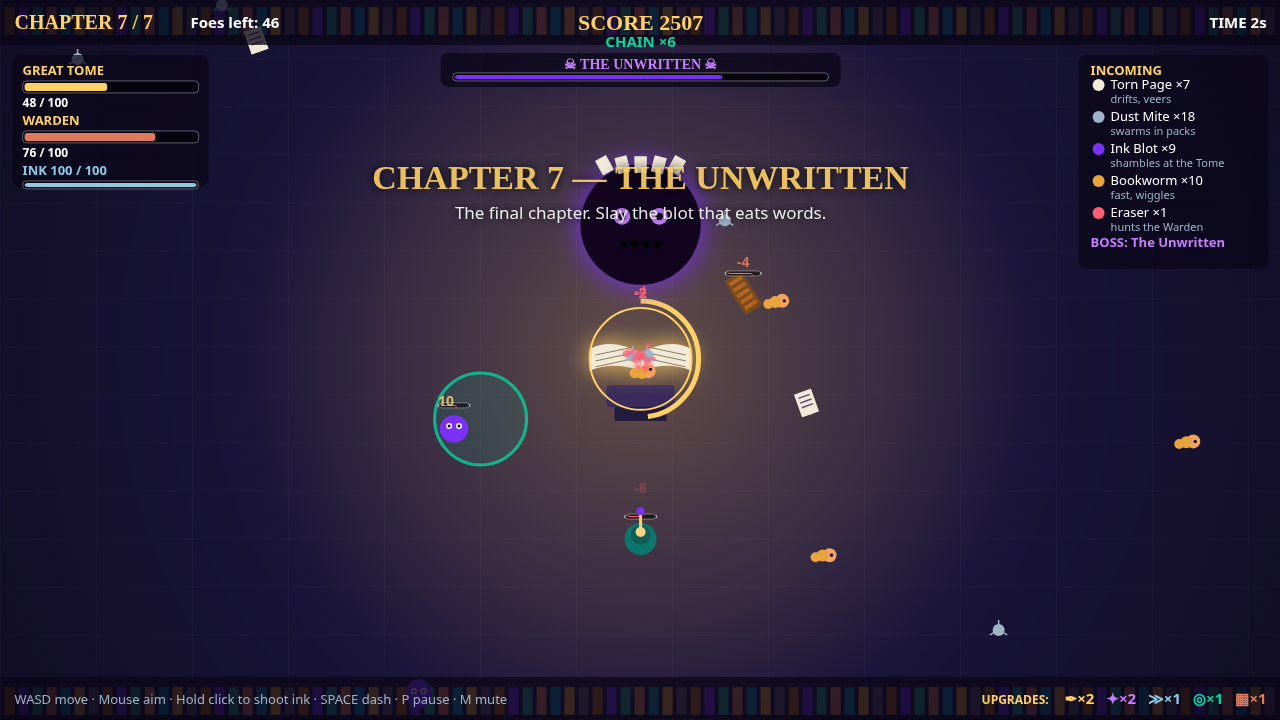
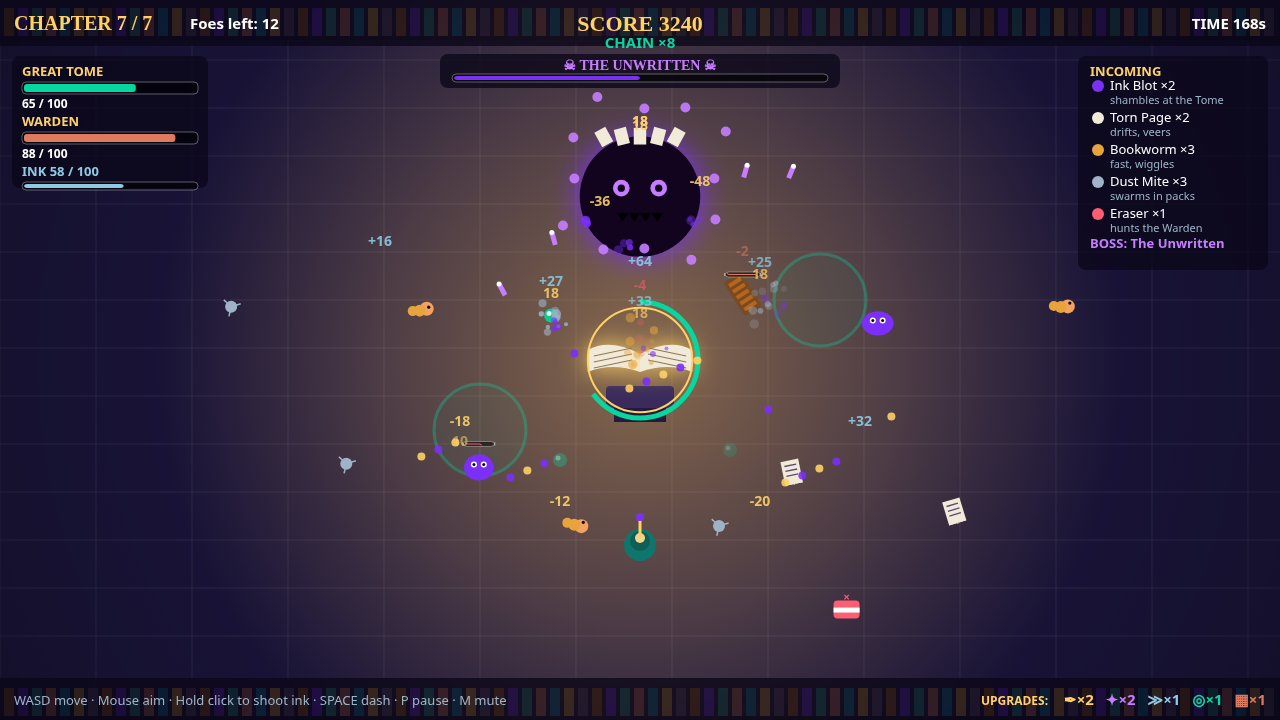
INKBOUND fix round: denser, brighter screenshots, frozen staging
- Cover re-staged as mid-chapter 4 (TIME 38s, Tome 78, chain x12, 26 foes
  on screen, 2 traps, 12 bolts, damage numbers) instead of a fresh
  chapter-3 start; boss re-staged mid-fight (boss 50% HP, 11 adds,
  TIME 168s, Tome 65) with the chapter banner cleared so no text
  strikes through the boss.
- Staged scenes now freeze after settling: captures land 2-6 s after
  load, and the live horde used to chew the Tome to zero (measured:
  82 -> 0 in ~5 s, run 'lost' by 5.7 s) before the shot. Freeze is
  staging-only (?shot=); real play is untouched — autoplay still wins
  118.1 s, 34545 pts, 326 kills, as before.
- Arena brightened a touch (Tome glow 0.30 -> 0.45, floor grid
  0.045 -> 0.09, vignette 0.42 -> 0.32); no balance or mechanic change.
- Hit-flash reset after settling so no enemy freezes bleached white.

diff --git a/game/src/main.js b/game/src/main.js
@@ -97,64 +97,118 @@ const stageInput = {
   wasPressed() { return false; },
 };
 
+// Once a staged scene has settled, the simulation FREEZES: a screenshot is a
+// still, and the capture can land 2–6 s after load — long enough for the
+// unstaged horde to chew the Tome to zero and flip the run to 'lost' (measured
+// live: tome 82 → 0 in ~5 s, phase 'lost' by 5.7 s). Freezing holds the
+// intended composition exactly while the render loop keeps repainting it.
+// Only active under ?shot=; real play never sets this flag.
+let stagedFreeze = false;
+
 function stageShot(kind) {
   if (kind === 'start') { run.phase = 'title'; return; }
   startRun(run);
   if (kind === 'play') {
-    startChapter(run, 3);
-    run.spawnQueue = run.spawnQueue.slice(0, 6);
+    startChapter(run, 4);
+    run.spawnQueue = [];
     applyUpgrade(run, 'damage'); applyUpgrade(run, 'spread');
-    applyUpgrade(run, 'trap'); applyUpgrade(run, 'shelf');
-    run.score = 1240; run.chain = 6; run.chainTimer = 999;
-    run.tome.integrity = 82;
-    run.player.ink = 64;
-    run.player.x = 640; run.player.y = 480;
-    const spots = [[400, 220], [840, 200], [500, 160], [800, 280], [360, 400], [900, 420], [640, 140], [300, 280], [980, 300], [480, 540], [800, 560], [640, 560], [420, 480], [860, 480], [540, 240], [820, 520]];
-    const kinds = ['blot', 'worm', 'page', 'blot', 'eraser', 'mite', 'spill', 'worm', 'blot', 'page', 'mite', 'worm', 'blot', 'eraser', 'page', 'worm'];
+    applyUpgrade(run, 'trap'); applyUpgrade(run, 'shelf'); applyUpgrade(run, 'shelf');
+    run.score = 2450; run.chain = 12; run.chainTimer = 999;
+    run.tome.integrity = 78;
+    run.player.ink = 72; run.player.hp = 96;
+    run.player.x = 640; run.player.y = 500;
+    // 28 enemies spread over the whole frame — a siege ring near the Tome,
+    // mid-field packs, and stragglers at the edges — so the frame reads dense
+    // at judge size instead of empty purple grid.
+    const spots = [[300, 180], [980, 520], [520, 240], [760, 250], [500, 430], [780, 470], [640, 200], [560, 300], [730, 330], [450, 330], [840, 360], [380, 480], [900, 480], [300, 320], [960, 220], [200, 420], [1080, 380], [180, 180], [1120, 160], [120, 560], [1160, 580], [420, 620], [880, 620], [640, 620], [240, 300], [1040, 480], [760, 560], [480, 560]];
+    const kinds = ['spill', 'spill', 'blot', 'worm', 'page', 'mite', 'worm', 'mite', 'blot', 'worm', 'page', 'blot', 'eraser', 'page', 'worm', 'mite', 'blot', 'worm', 'mite', 'blot', 'page', 'worm', 'mite', 'eraser', 'mite', 'worm', 'blot', 'page'];
     spots.forEach((s, i) => spawnEnemy(run, kinds[i], s[0], s[1]));
-    // Ink bolts already in flight, a trap blooming, splats and numbers.
-    for (let i = 0; i < 8; i++) {
-      const a = -Math.PI / 2 + (i - 3.5) * 0.22;
+    // Ink bolts already in flight, two traps blooming, splats and numbers.
+    for (let i = 0; i < 12; i++) {
+      const a = -Math.PI / 2 + (i - 5.5) * 0.11;
       // Staged bolt: a long life so it is still flying when the shot is taken.
-      run.bullets.push({ x: 640 + Math.cos(a) * (30 + i * 12), y: 480 + Math.sin(a) * (30 + i * 12), vx: Math.cos(a) * 640, vy: Math.sin(a) * 640, damage: 18, life: 4 });
+      run.bullets.push({ x: 640 + Math.cos(a) * (30 + i * 12), y: 500 + Math.sin(a) * (30 + i * 12), vx: Math.cos(a) * 640, vy: Math.sin(a) * 640, damage: 18, life: 4 });
     }
-    run.traps.push({ x: 500, y: 300, radius: 46, life: 25, tickCd: 0 });
+    run.traps.push({ x: 480, y: 300, radius: 46, life: 25, tickCd: 0 });
+    run.traps.push({ x: 830, y: 430, radius: 46, life: 25, tickCd: 0 });
     // Staged splats and numbers: a long life so they are still visible at shot time.
-    for (let i = 0; i < 14; i++) {
-      run.particles.push({ x: 480 + i * 12, y: 300 + (i % 3) * 14, vx: 20, vy: -30, life: 4, max: 4, color: '#7b2ff7', size: 4 });
+    const splatCols = ['#7b2ff7', '#ffd166', '#06d6a0'];
+    for (let i = 0; i < 30; i++) {
+      const cx = [560, 760, 480][i % 3], cy = [280, 300, 430][i % 3];
+      run.particles.push({ x: cx + ((i * 37) % 120) - 60, y: cy + ((i * 53) % 90) - 45, vx: 20, vy: -30, life: 4, max: 4, color: splatCols[i % 3], size: 4 });
     }
-    run.floaters.push({ x: 560, y: 240, text: '-18', color: '#ffd166', life: 4, max: 4 });
-    run.floaters.push({ x: 820, y: 200, text: '+32', color: '#8ecae6', life: 4, max: 4 });
+    const nums = [[560, 240, '-18', '#ffd166'], [820, 200, '+32', '#8ecae6'], [480, 360, '-24', '#ffd166'], [900, 420, '+48', '#8ecae6'], [640, 300, '-12', '#ffd166'], [380, 380, '+16', '#8ecae6'], [760, 520, '-20', '#ffd166'], [300, 240, '+64', '#8ecae6'], [1000, 300, '-18', '#ffd166']];
+    nums.forEach((n) => run.floaters.push({ x: n[0], y: n[1], text: n[2], color: n[3], life: 4, max: 4 }));
+    [[560, 420], [720, 430], [600, 300]].forEach((p) => run.pickups.push({ x: p[0], y: p[1], value: 12, life: 12 }));
     for (let i = 0; i < 25; i++) update(run, stageInput, FIXED_DT, null);
+    // No enemy frozen mid-hit-flash (white): a bolt landing in the last
+    // settle steps would leave it bleached in the still.
+    for (const e of run.enemies) e.flash = 0;
     // The staged fight must show the intended numbers: bites taken while the
-    // scene settles are staging noise, not the game.
-    run.chain = 6; run.chainTimer = 999;
-    run.tome.integrity = 82; run.score = 1240;
+    // scene settles are staging noise, not the game. Mid-chapter-4 numbers:
+    // TIME ~38 s, Tome 78, chain x12. Banner cleared — the HUD already says
+    // CHAPTER 4 / 7. Then freeze, so the capture shows this exact scene.
+    run.chain = 12; run.chainTimer = 999;
+    run.tome.integrity = 78; run.score = 2450;
+    run.player.hp = 96; run.player.ink = 72;
+    run.time = 38; run.chapterTime = 9;
+    run.banner = null;
+    stagedFreeze = true;
   } else if (kind === 'boss') {
     startChapter(run, 7);
+    run.spawnQueue = [];
     applyUpgrade(run, 'damage'); applyUpgrade(run, 'damage');
     applyUpgrade(run, 'spread'); applyUpgrade(run, 'spread');
     applyUpgrade(run, 'firerate'); applyUpgrade(run, 'trap'); applyUpgrade(run, 'shelf');
-    run.score = 2480; run.chain = 5; run.chainTimer = 999;
-    run.tome.integrity = 64;
-    run.player.x = 640; run.player.y = 540;
+    run.score = 3240; run.chain = 8; run.chainTimer = 999;
+    run.tome.integrity = 65;
+    run.player.ink = 58; run.player.hp = 88;
+    run.player.x = 640; run.player.y = 545;
     // The boss enters mid-field for the shot (it spawns off-screen by design),
-    // far enough from the Tome that it cannot bite it before the shot.
-    if (run.boss) { run.boss.x = 640; run.boss.y = 150; run.boss.hp = 720; }
-    const spots = [[400, 280], [880, 260], [500, 440], [860, 480], [700, 560], [320, 480], [960, 480], [600, 480]];
-    const kinds = ['mite', 'worm', 'page', 'mite', 'worm', 'blot', 'page', 'eraser'];
+    // far enough from the Tome that it cannot bite it before the shot. Lower
+    // than before (y 185) so its crown clears the boss bar at the top.
+    if (run.boss) { run.boss.x = 640; run.boss.y = 185; run.boss.hp = 475; }
+    // 14 adds spread over the whole frame: a ring near the boss, mid-field
+    // packs, and stragglers at the edges.
+    const spots = [[520, 300], [760, 300], [640, 330], [460, 480], [820, 480], [560, 560], [740, 570], [380, 300], [900, 320], [300, 480], [980, 520], [180, 300], [1100, 300], [880, 620]];
+    const kinds = ['mite', 'mite', 'worm', 'blot', 'page', 'worm', 'mite', 'worm', 'blot', 'mite', 'page', 'mite', 'worm', 'eraser'];
     spots.forEach((s, i) => spawnEnemy(run, kinds[i], s[0], s[1]));
-    for (let i = 0; i < 6; i++) {
-      const a = -Math.PI / 2 + (i - 2.5) * 0.2;
+    for (let i = 0; i < 10; i++) {
+      const a = -Math.PI / 2 + (i - 4.5) * 0.11;
       // Staged bolt: a long life so it is still flying when the shot is taken.
-      run.bullets.push({ x: 640 + Math.cos(a) * (30 + i * 14), y: 540 + Math.sin(a) * (30 + i * 14), vx: Math.cos(a) * 640, vy: Math.sin(a) * 640, damage: 18, life: 4 });
+      run.bullets.push({ x: 640 + Math.cos(a) * (30 + i * 14), y: 545 + Math.sin(a) * (30 + i * 14), vx: Math.cos(a) * 640, vy: Math.sin(a) * 640, damage: 18, life: 4 });
     }
-    run.traps.push({ x: 480, y: 420, radius: 46, life: 25, tickCd: 0 });
+    run.traps.push({ x: 480, y: 430, radius: 46, life: 25, tickCd: 0 });
+    run.traps.push({ x: 820, y: 300, radius: 46, life: 25, tickCd: 0 });
+    // Violet burst around the boss, gold splats mid-field, numbers everywhere.
+    for (let i = 0; i < 12; i++) {
+      const a = (i / 12) * Math.PI * 2;
+      run.particles.push({ x: 640 + Math.cos(a) * (70 + (i % 3) * 12), y: 185 + Math.sin(a) * (70 + (i % 3) * 12), vx: 20, vy: -30, life: 4, max: 4, color: '#c77dff', size: 5 });
+    }
+    for (let i = 0; i < 18; i++) {
+      const cx = [640, 480, 820][i % 3], cy = [400, 460, 450][i % 3];
+      run.particles.push({ x: cx + ((i * 41) % 140) - 70, y: cy + ((i * 29) % 80) - 40, vx: 20, vy: -30, life: 4, max: 4, color: i % 2 ? '#ffd166' : '#7b2ff7', size: 4 });
+    }
+    const nums = [[600, 220, '-36', '#ffd166'], [700, 200, '-48', '#ffd166'], [640, 280, '+64', '#8ecae6'], [460, 440, '-18', '#ffd166'], [860, 440, '+32', '#8ecae6'], [560, 520, '-12', '#ffd166'], [760, 520, '-20', '#ffd166'], [380, 260, '+16', '#8ecae6']];
+    nums.forEach((n) => run.floaters.push({ x: n[0], y: n[1], text: n[2], color: n[3], life: 4, max: 4 }));
+    [[560, 460], [730, 450]].forEach((p) => run.pickups.push({ x: p[0], y: p[1], value: 12, life: 12 }));
     for (let i = 0; i < 25; i++) update(run, stageInput, FIXED_DT, null);
+    // No enemy frozen mid-hit-flash (white): a bolt landing in the last
+    // settle steps would leave the boss bleached white in the still.
+    for (const e of run.enemies) e.flash = 0;
     // The staged fight must show the intended numbers: bites taken while the
-    // scene settles are staging noise, not the game.
-    run.chain = 5; run.chainTimer = 999;
-    run.tome.integrity = 64; run.score = 2480;
+    // scene settles are staging noise, not the game. Mid-boss-fight numbers:
+    // TIME ~168 s, boss at 50% HP, Tome 65, chain x8. The chapter banner is
+    // cleared — it used to strike straight through the boss. The boss bar at
+    // the top already names the fight. Then freeze, so the capture shows this
+    // exact scene.
+    run.chain = 8; run.chainTimer = 999;
+    run.tome.integrity = 65; run.score = 3240;
+    run.player.hp = 88; run.player.ink = 58;
+    if (run.boss) run.boss.hp = 475;
+    run.time = 168; run.chapterTime = 24;
+    run.banner = null;
+    stagedFreeze = true;
   }
 }
 
@@ -169,11 +223,11 @@ function frame(now) {
   while (acc >= FIXED_DT && steps < 5) {
     acc -= FIXED_DT;
     steps++;
-    if (run.phase === 'playing') {
+    if (run.phase === 'playing' && !stagedFreeze) {
       if (autoplay) aimBot();
       update(run, autoplay ? bot : input, FIXED_DT, sfx);
       if (run.phase === 'upgrade' && autoplay) chooseUpgrade(run, 0, sfx);
-    } else {
+    } else if (run.phase !== 'playing') {
       run.time += FIXED_DT;
       if (run.banner) { run.banner.t += FIXED_DT; if (run.banner.t > run.banner.dur) run.banner = null; }
     }

diff --git a/game/src/render.js b/game/src/render.js
@@ -28,7 +28,7 @@ function drawBackground(ctx, run) {
   // Library floor: deep indigo planks.
   ctx.fillStyle = '#1d1740';
   ctx.fillRect(0, 0, VIEW_W, VIEW_H);
-  ctx.strokeStyle = 'rgba(255,255,255,0.045)';
+  ctx.strokeStyle = 'rgba(255,255,255,0.09)';
   ctx.lineWidth = 1;
   for (let y = 60; y < VIEW_H; y += 48) {
     ctx.beginPath(); ctx.moveTo(0, y); ctx.lineTo(VIEW_W, y); ctx.stroke();
@@ -40,15 +40,15 @@ function drawBackground(ctx, run) {
   drawShelfRow(ctx, run, 0, 8);
   drawShelfRow(ctx, run, VIEW_H - 40, 8);
   // Warm lamplight pooling around the Great Tome.
-  const g = ctx.createRadialGradient(TOME_X, TOME_Y, 20, TOME_X, TOME_Y, 400);
-  g.addColorStop(0, 'rgba(255,196,90,0.30)');
+  const g = ctx.createRadialGradient(TOME_X, TOME_Y, 20, TOME_X, TOME_Y, 480);
+  g.addColorStop(0, 'rgba(255,196,90,0.45)');
   g.addColorStop(1, 'rgba(255,196,90,0)');
   ctx.fillStyle = g;
-  ctx.fillRect(TOME_X - 400, TOME_Y - 400, 800, 800);
+  ctx.fillRect(TOME_X - 480, TOME_Y - 480, 960, 960);
   // Vignette.
   const v = ctx.createRadialGradient(640, 360, 260, 640, 360, 720);
   v.addColorStop(0, 'rgba(0,0,0,0)');
-  v.addColorStop(1, 'rgba(0,0,0,0.42)');
+  v.addColorStop(1, 'rgba(0,0,0,0.32)');
   ctx.fillStyle = v;
   ctx.fillRect(0, 0, VIEW_W, VIEW_H);
 }
